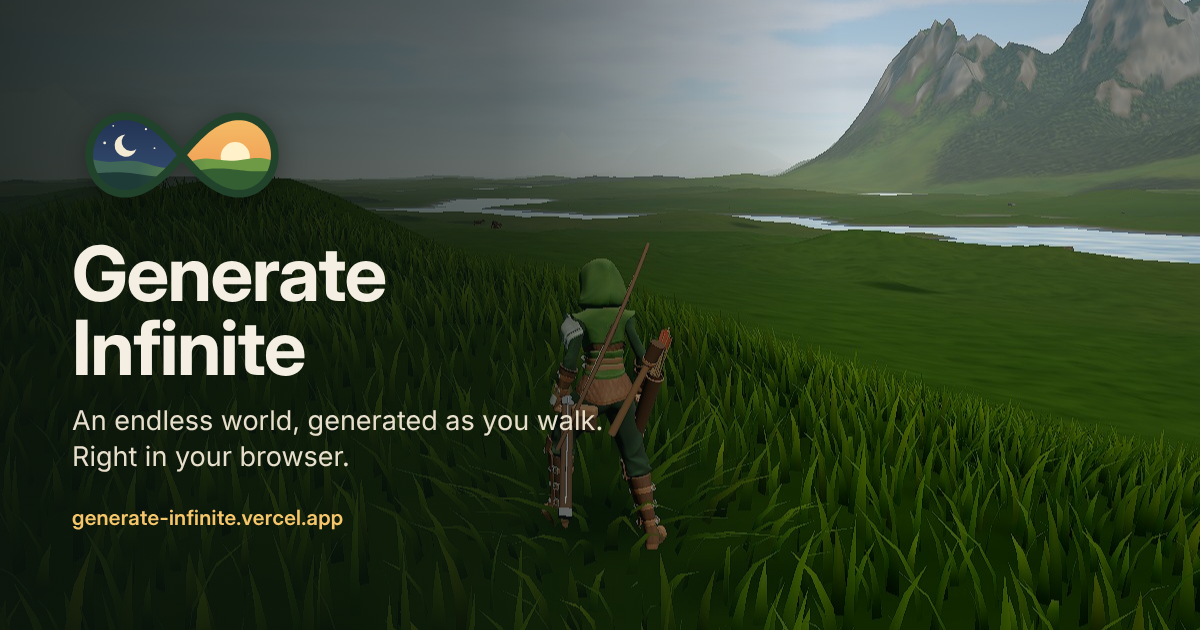
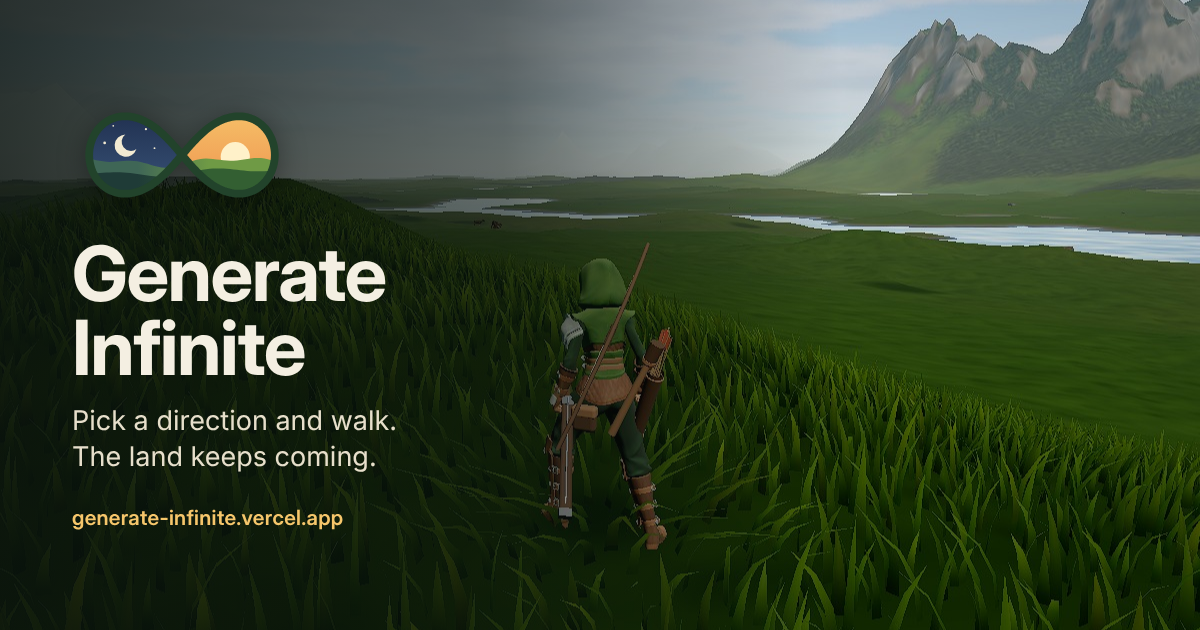
docs: a better opening for the README and the shared link
"Pick a direction and walk. The land keeps coming." The README's opening
and its first section say what the world is in plainer, livelier words;
the share image and the page's description carry the same line.

Changed region(s): [[0.0617, 0.6333, 0.4933, 0.754]]

diff --git a/index.html b/index.html
@@ -12,12 +12,12 @@
         <meta property="og:type" content="website">
         <meta property="og:url" content="https://generate-infinite.vercel.app/">
         <meta property="og:title" content="Generate Infinite">
-        <meta property="og:description" content="An endless world generated as you walk, in the browser.">
+        <meta property="og:description" content="Pick a direction and walk. The land keeps coming: an open world with no edge, in your browser.">
         <meta property="og:image" content="https://generate-infinite.vercel.app/social/share-1200x630.png">
 
         <meta name="twitter:card" content="summary_large_image">
         <meta name="twitter:title" content="Generate Infinite">
-        <meta name="twitter:description" content="An endless world generated as you walk, in the browser.">
+        <meta name="twitter:description" content="Pick a direction and walk. The land keeps coming: an open world with no edge, in your browser.">
         <meta name="twitter:image" content="https://generate-infinite.vercel.app/social/share-1200x630.png">
     </head>
     <body>

diff --git a/README.md b/README.md
@@ -5,8 +5,8 @@
 <h1 align="center">Generate Infinite</h1>
 
 <p align="center">
-  <b>An endless world, generated as you walk.</b><br>
-  Hills, forests, lakes and mountains under a real sky, with a ranger or a villager to explore them. In your browser, nothing to install.
+  <b>Pick a direction and walk. The land keeps coming.</b><br>
+  An open world with no edge: hills, forests, lakes and mountain ranges take shape around you as you go, under a sky that turns from dawn to starlight. It runs in your browser.
 </p>
 
 <p align="center">
@@ -20,9 +20,9 @@
   <img src="docs/images/hero.jpg" alt="The Ranger on a grassy hilltop looking out over lakes toward a mountain" width="100%">
 </p>
 
-## A world without an edge
+## A world with no edge
 
-Every step reveals land nobody has seen before. The ground is shaped as you travel: lowland plains, rolling hills, ridged mountain ranges and lakes in the basins. Forests grow where the land suits them, and the sky moves through a full day and night. Walk in any direction and it never runs out. Give the address a seed (`?seed=anything`) and you get a different world, the same one every time.
+There is no map to finish. The land is worked out as you come to it, so the hillside under your feet was never stored anywhere. Valleys open into lake basins, ridges climb into peaks, and forests gather where the slope and soil suit them, thinning out toward the tree line. Look back and the same land is still there, because the same seed always grows the same world. Add `?seed=` and any word to the address to visit another one.
 
 <table>
   <tr>

diff --git a/docs/HANDOFF.md b/docs/HANDOFF.md
@@ -1,7 +1,7 @@
 # Handoff: where Generate Infinite stands
 
-A working summary for whoever picks the project up next (a person or a Claude Code
-session). It records what was built across the long local sessions of October 2026, how the
+A working summary for whoever picks the project up next, in this session or a new
+one. It records what was built across the long local sessions of October 2026, how the
 pieces fit, how to check changes, what is still open, and the owner's working rules. The
 README describes the game itself; this file is about carrying the work on.
 
